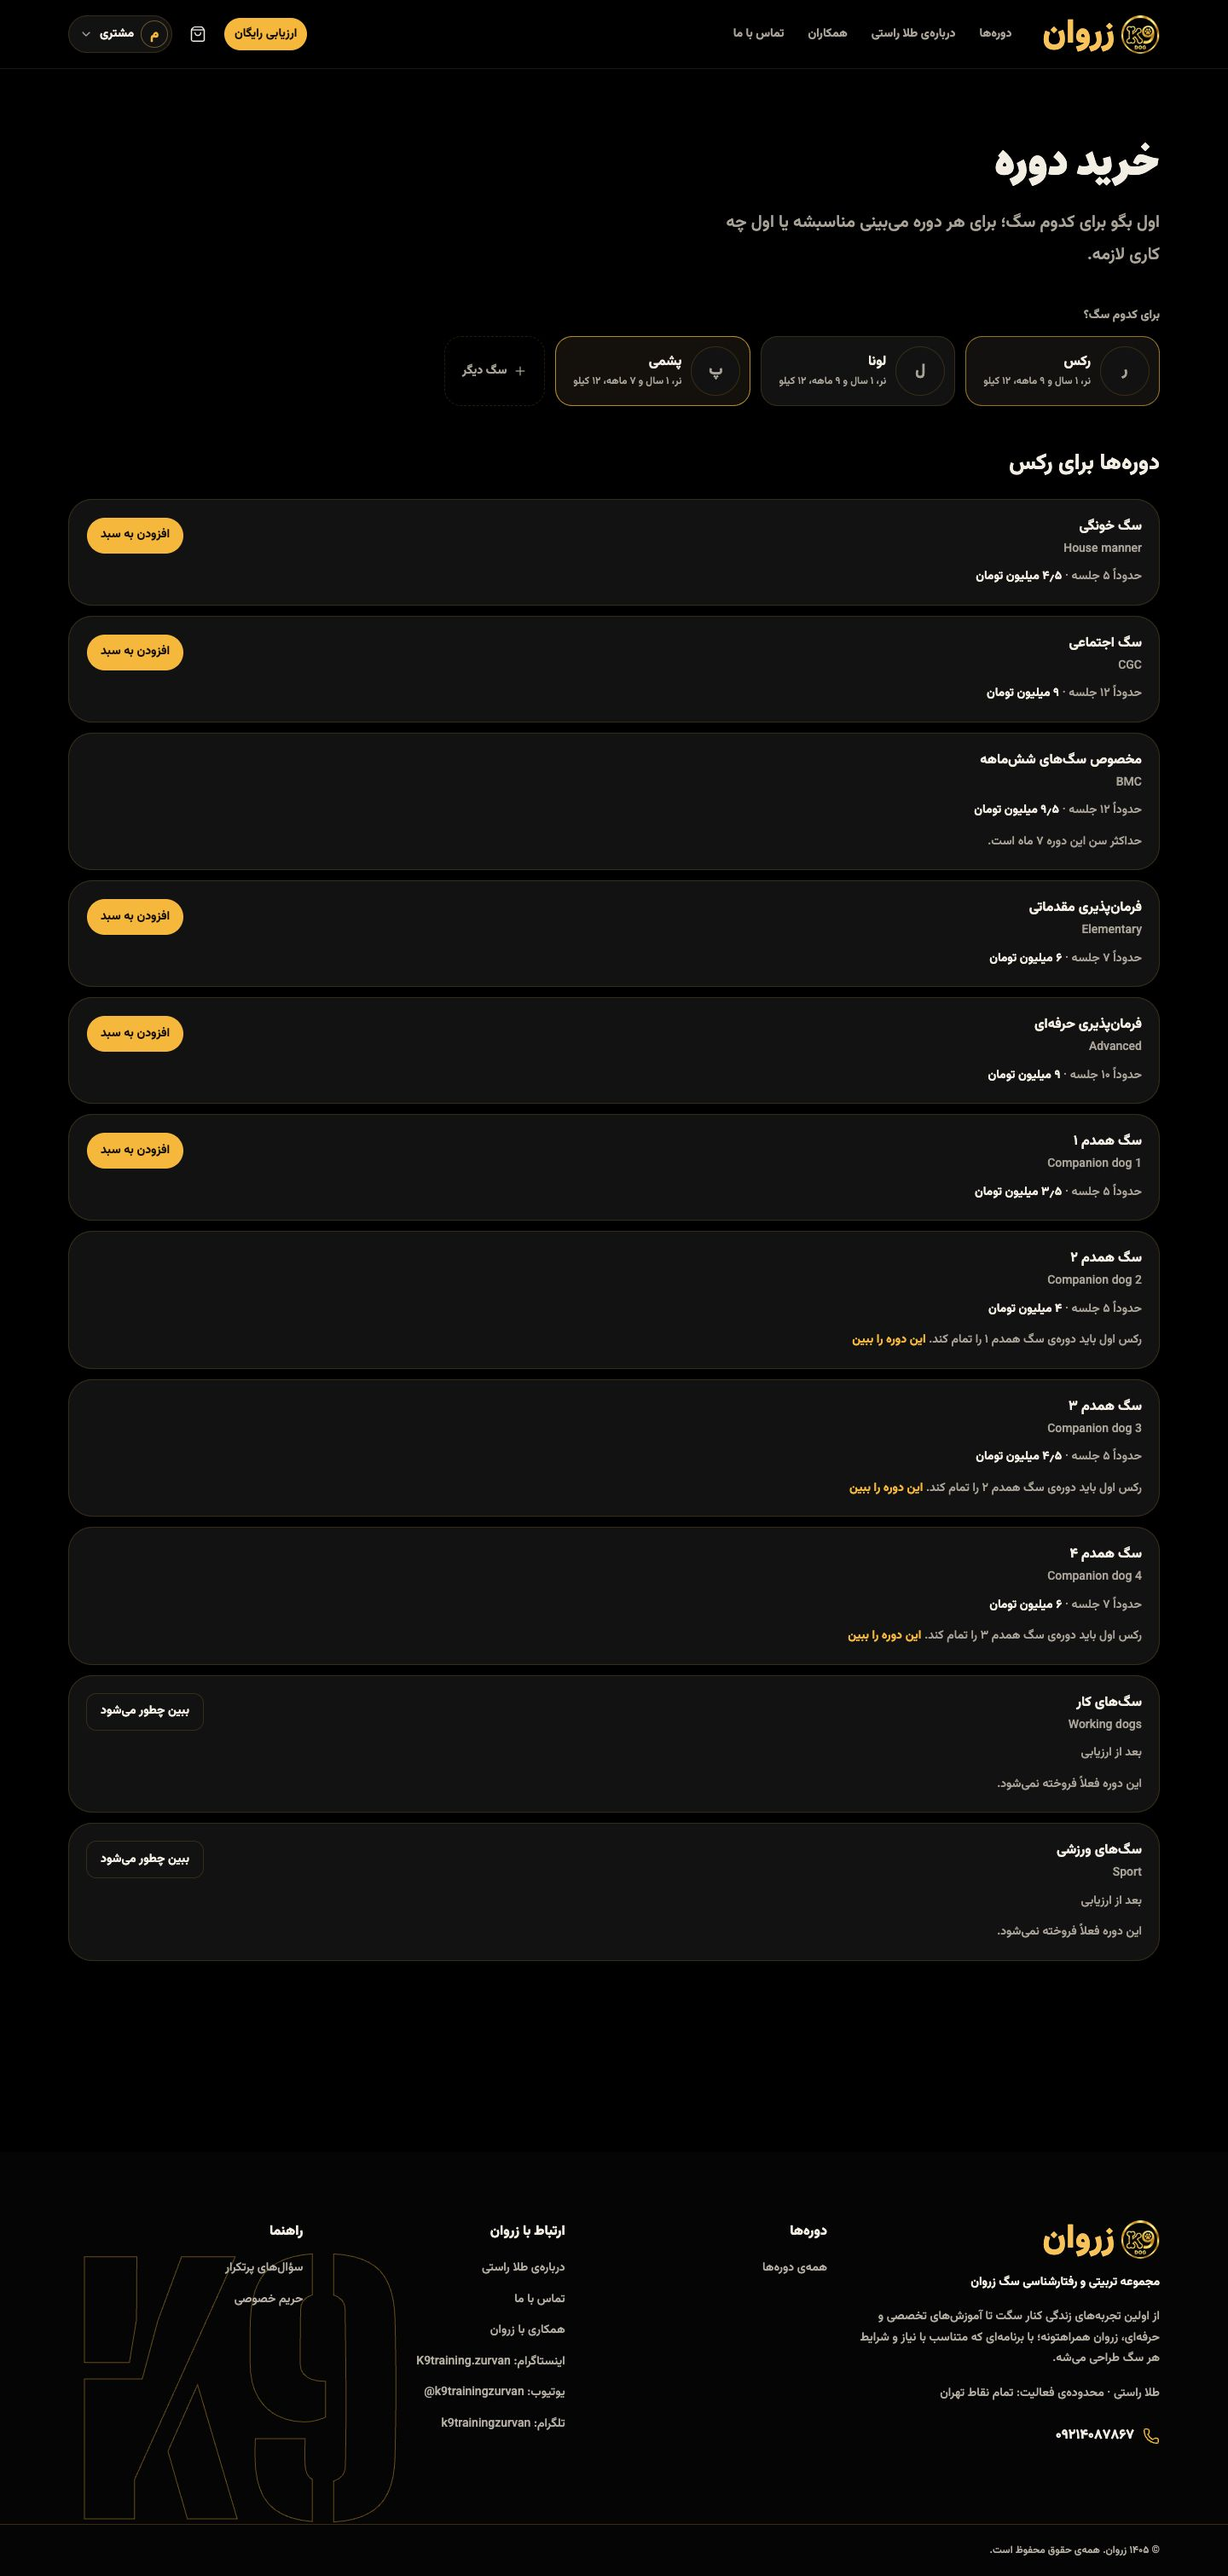
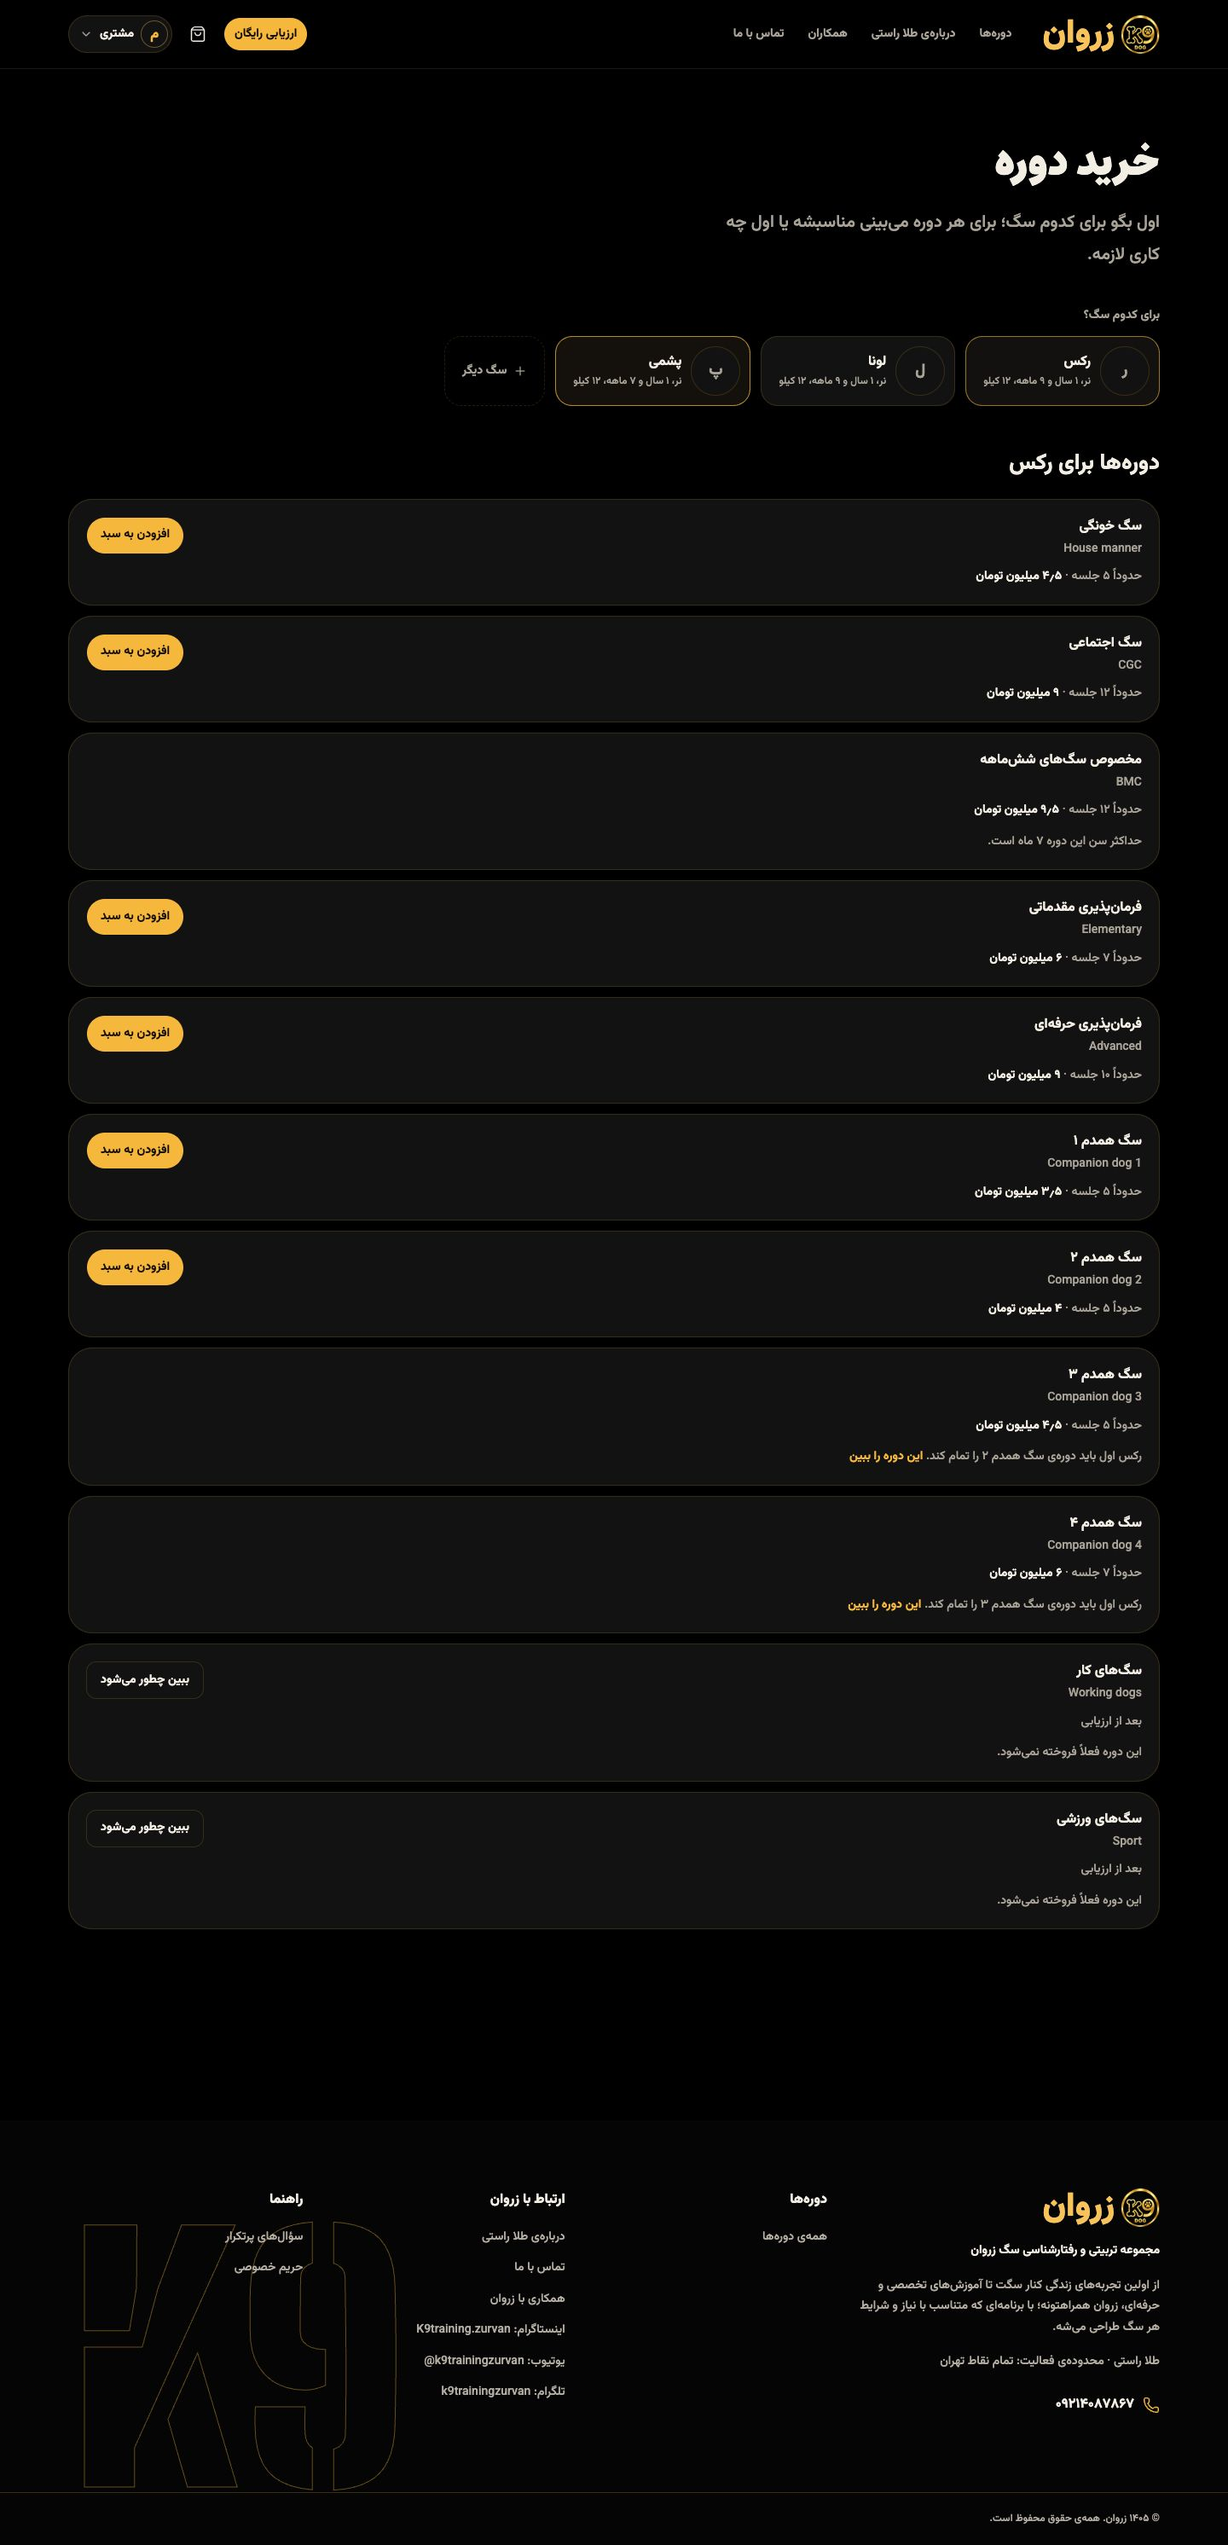
test(notifications): prove the Admin is told of evaluation requests and paid purchases
Three integration tests: a new evaluation request writes one SMS to the Admin
naming the dog and linking to the request; a paid purchase tells the Admin to
call the customer and gives the customer a receipt; a repeated gateway callback
says nothing more. Also lists the refund SMS in the notifications table, drops
the now-built server-side cart from the spec's future features, and refreshes
the purchase-page screenshots.

diff --git a/app/orpc/checkout/notifications.integration.test.ts b/app/orpc/checkout/notifications.integration.test.ts
@@ -1,0 +1,194 @@
+import { randomUUID } from "node:crypto";
+
+import { and, eq, inArray, like, or } from "drizzle-orm";
+import { afterAll, beforeAll, describe, expect, it } from "vitest";
+
+import { db } from "~/db/client.server";
+import { course, dog, enrollment, evaluation, payment, paymentItem, smsOutbox, user } from "~/db/schema";
+import { findAdminPhoneNumber } from "~/lib/notify.server";
+import { getPaymentGateway } from "~/lib/payment-gateway.server";
+import { phonePlaceholderEmail } from "~/lib/phone";
+import { utcToTehranParts } from "~/lib/tehran-time";
+import { completeGatewayPayment, payCart } from "~/orpc/checkout/service";
+import { createDog } from "~/orpc/dog/service";
+import { markDogEvaluated, requestEvaluation } from "~/orpc/evaluation/service";
+
+/*===== Telling The Admin =====*/
+// F9: the Admin hears about what he has to act on, by SMS (in showcase mode, into the outbox): a customer asking for the
+// free evaluation, and a purchase that was paid (to call the customer). The customer gets the receipt. Runs against the
+// real database. Needs the schema (`npm run db:push`). The test makes its own people and course, and only reads its own rows.
+
+const runId = randomUUID().slice(0, 8);
+const phoneBase = `089${Math.floor(10000 + Math.random() * 89999)}`;
+const customer = { id: `test-notify-${runId}`, phone: `${phoneBase}001`, name: `مشتری اعلان ${runId}` };
+const madeAdmin = { id: `test-notify-admin-${runId}`, phone: `${phoneBase}002` };
+const courseTitle = `آزمایش اعلان ${runId}`;
+const slug = `test-notify-${runId}`;
+let courseId = "";
+let adminPhone = "";
+const dogs = { toEvaluate: "", evaluated: "" };
+// What the first two cases leave for the later ones and for the cleanup.
+let evaluationId = "";
+let callbackParams = new URLSearchParams();
+
+async function makeDog(name: string): Promise<string> {
+  const created = await createDog({
+    db,
+    ownerId: customer.id,
+    input: { name, sex: "male", birthDate: "2024-05-01", weightKg: 20, isNeutered: true },
+  });
+  if (created.kind !== "success") throw new Error("Could not create the test dog.");
+  return created.dog.id;
+}
+
+beforeAll(async () => {
+  await db.insert(user).values({
+    id: customer.id,
+    name: customer.name,
+    email: phonePlaceholderEmail(customer.phone),
+    phoneNumber: customer.phone,
+    role: "customer",
+  });
+  // There is exactly one Admin in the product. If this database has none, this test makes one for the app to find.
+  const existing = await findAdminPhoneNumber({ db });
+  if (!existing) {
+    await db.insert(user).values({
+      id: madeAdmin.id,
+      name: "Test admin",
+      email: phonePlaceholderEmail(madeAdmin.phone),
+      phoneNumber: madeAdmin.phone,
+      role: "admin",
+    });
+  }
+  adminPhone = (await findAdminPhoneNumber({ db })) ?? "";
+
+  const [row] = await db
+    .insert(course)
+    .values({
+      slug,
+      title: courseTitle,
+      latinName: slug,
+      family: "basics",
+      status: "approved",
+      summary: "آزمایشی",
+      coverImage: "/x.webp",
+      coverAlt: "x",
+      coverWidth: 1,
+      coverHeight: 1,
+      price: 2_000_000,
+      position: 9999,
+    })
+    .returning({ id: course.id });
+  courseId = row?.id ?? "";
+  dogs.toEvaluate = await makeDog("لونا");
+  dogs.evaluated = await makeDog("رکس");
+  const evaluated = await markDogEvaluated({ db, dogId: dogs.evaluated });
+  if (evaluated.kind !== "success") throw new Error("Could not evaluate the test dog.");
+});
+
+afterAll(async () => {
+  const paymentIds = db.select({ id: payment.id }).from(payment).where(eq(payment.customerId, customer.id));
+  await db
+    .delete(smsOutbox)
+    .where(
+      or(
+        eq(smsOutbox.phoneNumber, customer.phone),
+        like(smsOutbox.body, `%${runId}%`),
+        evaluationId ? like(smsOutbox.body, `%evaluation=${evaluationId}%`) : undefined,
+      ),
+    );
+  await db.delete(enrollment).where(eq(enrollment.customerId, customer.id));
+  await db.delete(paymentItem).where(inArray(paymentItem.paymentId, paymentIds));
+  await db.delete(payment).where(eq(payment.customerId, customer.id));
+  await db.delete(evaluation).where(eq(evaluation.customerId, customer.id));
+  await db.delete(dog).where(eq(dog.ownerId, customer.id));
+  await db.delete(course).where(eq(course.id, courseId));
+  await db.delete(user).where(inArray(user.id, [customer.id, madeAdmin.id]));
+  await db.$client.end();
+});
+
+const toAdmin = (kind: string) =>
+  db
+    .select()
+    .from(smsOutbox)
+    .where(and(eq(smsOutbox.phoneNumber, adminPhone), eq(smsOutbox.kind, kind)));
+
+describe("a customer asks for the free evaluation", () => {
+  it("tells the Admin, with the dog and a link that opens the request", async () => {
+    const asked = await requestEvaluation({
+      db,
+      customerId: customer.id,
+      input: {
+        dogId: dogs.toEvaluate,
+        earliestDate: utcToTehranParts(new Date()).date,
+        availableDays: ["saturday"],
+        availablePeriods: ["morning"],
+        photoMediaIds: [],
+        videoIds: [],
+      },
+    });
+    if (asked.kind !== "success") throw new Error(`Could not ask for the evaluation: ${JSON.stringify(asked)}`);
+    evaluationId = asked.evaluation.id;
+
+    const ours = (await toAdmin("evaluation-requested")).filter((row) =>
+      row.body.includes(`/admin/evaluations?evaluation=${evaluationId}`),
+    );
+    expect(ours).toHaveLength(1);
+    expect(ours[0]?.body).toContain("لونا");
+    expect(ours[0]?.body).toContain("با مشتری تماس بگیر");
+  });
+});
+
+describe("a purchase is paid", () => {
+  it("tells the Admin to call the customer, and gives the customer a receipt", async () => {
+    const gateway = getPaymentGateway();
+    const started = await payCart({
+      db,
+      gateway,
+      customerId: customer.id,
+      input: { items: [{ courseSlug: slug, dogId: dogs.evaluated }] },
+      callbackUrl: "http://localhost/payment/callback",
+    });
+    if (started.kind !== "redirect") throw new Error(`Could not start the payment: ${JSON.stringify(started)}`);
+    callbackParams = new URL(started.url, "http://localhost").searchParams;
+
+    // Nothing is said while the payment is only started.
+    const before = (await toAdmin("payment-paid-admin")).filter((row) => row.body.includes(runId));
+    expect(before).toEqual([]);
+
+    const settled = await completeGatewayPayment({
+      db,
+      gateway,
+      authority: callbackParams.get("Authority") ?? "",
+      callbackParams,
+    });
+    expect(settled).toMatchObject({ kind: "paid", enrolled: 1 });
+
+    const adminRows = (await toAdmin("payment-paid-admin")).filter((row) => row.body.includes(runId));
+    expect(adminRows).toHaveLength(1);
+    expect(adminRows[0]?.body).toContain(customer.name);
+    expect(adminRows[0]?.body).toContain(courseTitle);
+    expect(adminRows[0]?.body).toContain("با او تماس بگیر");
+
+    const receipts = await db
+      .select()
+      .from(smsOutbox)
+      .where(and(eq(smsOutbox.phoneNumber, customer.phone), eq(smsOutbox.kind, "payment-paid")));
+    expect(receipts).toHaveLength(1);
+    expect(receipts[0]?.body).toContain(courseTitle);
+    expect(receipts[0]?.body).toContain("تماس میگیریم");
+  });
+
+  it("says nothing more when the gateway calls back a second time", async () => {
+    const again = await completeGatewayPayment({
+      db,
+      gateway: getPaymentGateway(),
+      authority: callbackParams.get("Authority") ?? "",
+      callbackParams,
+    });
+    expect(again).toMatchObject({ kind: "already-settled" });
+
+    const adminRows = (await toAdmin("payment-paid-admin")).filter((row) => row.body.includes(runId));
+    expect(adminRows).toHaveLength(1);
+  });
+});

diff --git a/docs/overnight/02-MORNING-CHECKLIST.md b/docs/overnight/02-MORNING-CHECKLIST.md
@@ -50,7 +50,7 @@ The primary handoff. Everything below is on the branch `feat/zurvann-overnight-f
 - [x] **Implemented and verified.** Deposit: configurable, 100% (the whole price) until the owner approves one; with a deposit set the gateway is charged only the deposit, the price on the item, the enrollment and the commission stay full, and the balance is shown. _Route:_ `/admin/settings` («پیشپرداخت»), `/account/cart`, `/account/purchases`, `/admin/payments`. _Test:_ set the deposit to 50, add a course to the cart (the cart says what is due now and what is left), pay (demo gateway), read the Purchases page and the Admin's payments; set it back to 100. _Env:_ Local; the gateway is the demo one, no card is charged. _Evidence:_ 5 integration tests and a browser run, screenshots `screenshots/f3-*.jpg`.
 - [x] **Implemented and verified.** Failed payment and partial deposit tests: a failed deposit payment enrolls nothing and records both amounts; re-login and account switching keep each customer's cart and payments separate (the cart tests).
 - [x] **Implemented and verified.** Refund ledger and accurate order states, no untracked out-of-band refunds: the Admin records a refund (never more than the payment charged), marks it paid with the transfer's reference, or cancels it; the customer sees the amount, the state and the reference; every step is in an audit trail. _Route:_ `/admin/payments` («ثبت بازپرداخت»), `/account/purchases`. _Test:_ on a paid payment record a refund of part of it, try more than what is left (refused), mark it paid with a reference (the customer gets an SMS in the SMS page), record another and cancel it, then open the customer's Purchases page. _Env:_ Local; no real money moves. _Evidence:_ 11 integration tests, a browser run, screenshots `screenshots/f4-*.jpg`.
-- [x] **Implemented and verified.** Notifications for the Admin: every paid purchase already sends the Admin an SMS (existing; showcase mode writes it to the SMS page) telling him to call the customer.
+- [x] **Implemented and verified.** Notifications for the Admin: every new evaluation request and every paid purchase sends the Admin an SMS telling him to call the customer (existing behaviour; showcase mode writes it to the SMS page, and the evaluation one links straight to the request), the customer gets a receipt, and a repeated gateway callback sends nothing more. _Test:_ request an evaluation, then pay for a course, then open the SMS page as the Admin. _Env:_ Local; no SMS is sent, they are written to the outbox. _Evidence:_ 3 integration tests (`app/orpc/checkout/notifications.integration.test.ts`).
 - [-] **Partially implemented: course purchasing from the dog.** «خرید دوره» at the top of the catalogue, `/buy` (signed out you are sent to sign in and brought back, the dog included), the dog chosen first, every course shown with the server's per-dog verdict, its price, and «افزودن به سبد». _Route:_ `/courses`, `/buy`. _Test:_ signed out press «خرید دوره» on `/courses`; sign in as `09120000004` (two dogs): pick each dog in turn, the evaluated one gets «افزودن به سبد» on the courses it can take and the reason on the others, a dog that hasn't been evaluated gets «ارزیابی رایگان» instead; add one and press «دیدن سبد و پرداخت». _Env:_ Local. _Evidence:_ 6 integration tests and a 26-check headless-Chrome run, screenshots `screenshots/f5-*.jpg`. _Not built, and why:_ the optional **bundle and its verified discount** (none is verified, and a bundle of two levels clashes with «a prerequisite must be passed, not bought»), **program-specific terms with acceptance** (no approved wording) see `03-DECISIONS-NEEDED.md`.
 - [x] **Implemented and verified.** The customer's approximate available days and times, asked at checkout for the coordination call. Optional, the same words as the evaluation request, and a preference, never a booking. _Route:_ `/account/cart` («کی هماهنگ کنیم؟»), `/account/purchases`, `/admin/payments`. _Test:_ add a course to the cart, tap a few days and times (tap one twice: it turns off), press «پرداخت» (demo gateway), then open «خریدها» (the line «وقتهای آزاد برای هماهنگی») and, signed in as the Admin, `/admin/payments` (the same line beside the customer's number); pay another time with nothing picked: it works and nothing is shown. _Env:_ Local; the gateway is the demo one. _Evidence:_ 9 integration and unit tests and a 12-check headless-Chrome run, screenshots `screenshots/f5-cart-when-free*.jpg`, `f5-purchases-when-free.jpg`, `f5-admin-when-free.jpg`. _Schema:_ two additive columns on `payment` (`04-DEPLOYMENT-AND-ROLLBACK.md`).
 - [ ] **Pending/blocked.** Delivery formats (private at the client's place, private at the centre, group at the centre, boarding). _Why:_ which formats each course offers, and whether a format changes the price, is the owner's to say; nothing was stored or shown beyond what the live FAQ already says.

diff --git a/docs/app-spec.md b/docs/app-spec.md
@@ -232,6 +232,7 @@ An enrollment is created **only by a successful payment** ([F5](#f5-cart-and-che
 | An enrollment marked done      | Customer                                    |
 | An enrollment cancelled        | Customer                                    |
 | A commission marked paid       | Partner                                     |
+| A refund marked paid           | Customer (with the transfer's reference)    |
 
 **Pages:** SMS Outbox · the dashboards
 
@@ -424,7 +425,6 @@ Not in this version.
 7. **Courses without a price** (working and sport dogs). Until then the home page mentions them and customers contact the Admin to enroll.
 8. **Disabling a dog** at the customer's request.
 9. **Breed rules and evaluation tags** in [F4](#f4-eligibility), once the owner defines dog profiles and course settings.
-10. **A cart saved on the server**, shared across devices.
 
 **Dropped** from the earlier docs: staff trainers as a role, the calendar, course requests and the Admin accepting them, trainer earnings and payouts, wallets and the money ledger, refund policies, behavior modification requests and plans, course tests, assessment slots, trainers submitting courses for approval, and reviews and comments.
 
